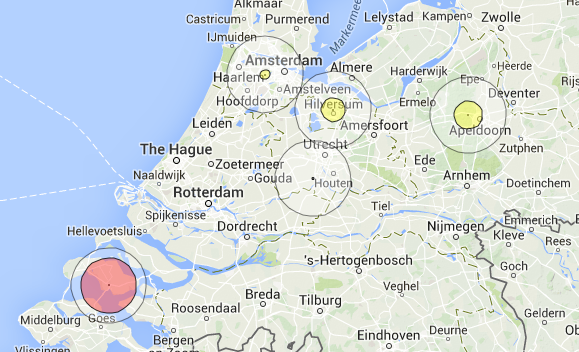
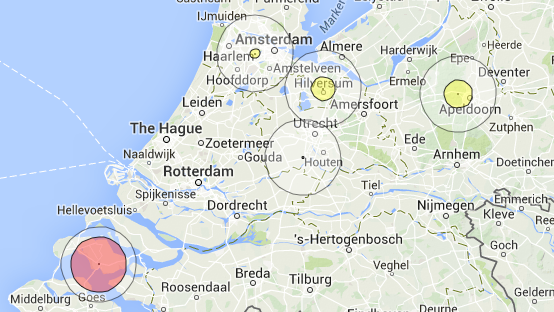
Cleanup, moved files to better named folders Updated readme.md Matched image sizes.

diff --git a/README.md b/README.md
@@ -1,9 +1,16 @@
 pi2nos-rx
 =========
 
-Visualization of signal quality on the different [PI2NOS repeater](http://www.hobbyscoop.nl/) receivers in the Netherlands.
+Visualization of signal quality on the different [PI2NOS repeater](http://www.hobbyscoop.nl/) receivers in the Netherlands. A version of these html files is kindly hosted at [pe1nmb](http://echolink.pe1nmb.nl/repeaters)
 
-![Screenshot of Circles](https://raw.githubusercontent.com/realrolfje/pi2nos-rx/master/screenshot-circles.png)
-![Screenshot of Heatmap](https://raw.githubusercontent.com/realrolfje/pi2nos-rx/master/screenshot-heatmap.png)
+**New!** The two repeaters now host configuration files which enables clients to fetch up-to-date information from the repeaters. With this information, a well-behaved client immediately shows up a new receiver or transmitter as soon as it is available on the repeater system. The files are hosted at the following locations:
 
-A version of these html files is kindly hosted at [pe1nmb](http://echolink.pe1nmb.nl/repeaters)
+* [PI2NOS repeater info](http://pi2nos.ampr.org/repeater-info.json)
+* [PI3UTR repeater info](http://pi3utr.ampr.org/repeater-info.json)
+
+<a href="http://echolink.pe1nmb.nl/repeaters/pi2nos-rx/html/circleMap.html">![Screenshot of Circles](https://raw.githubusercontent.com/realrolfje/pi2nos-rx/master/screenshot-circles.png)</a>
+
+<a href="http://echolink.pe1nmb.nl/repeaters/pi2nos-rx/html/heatMap.html">![Screenshot of Heatmap](https://raw.githubusercontent.com/realrolfje/pi2nos-rx/master/screenshot-heatmap.png)</a>
+
+
+
